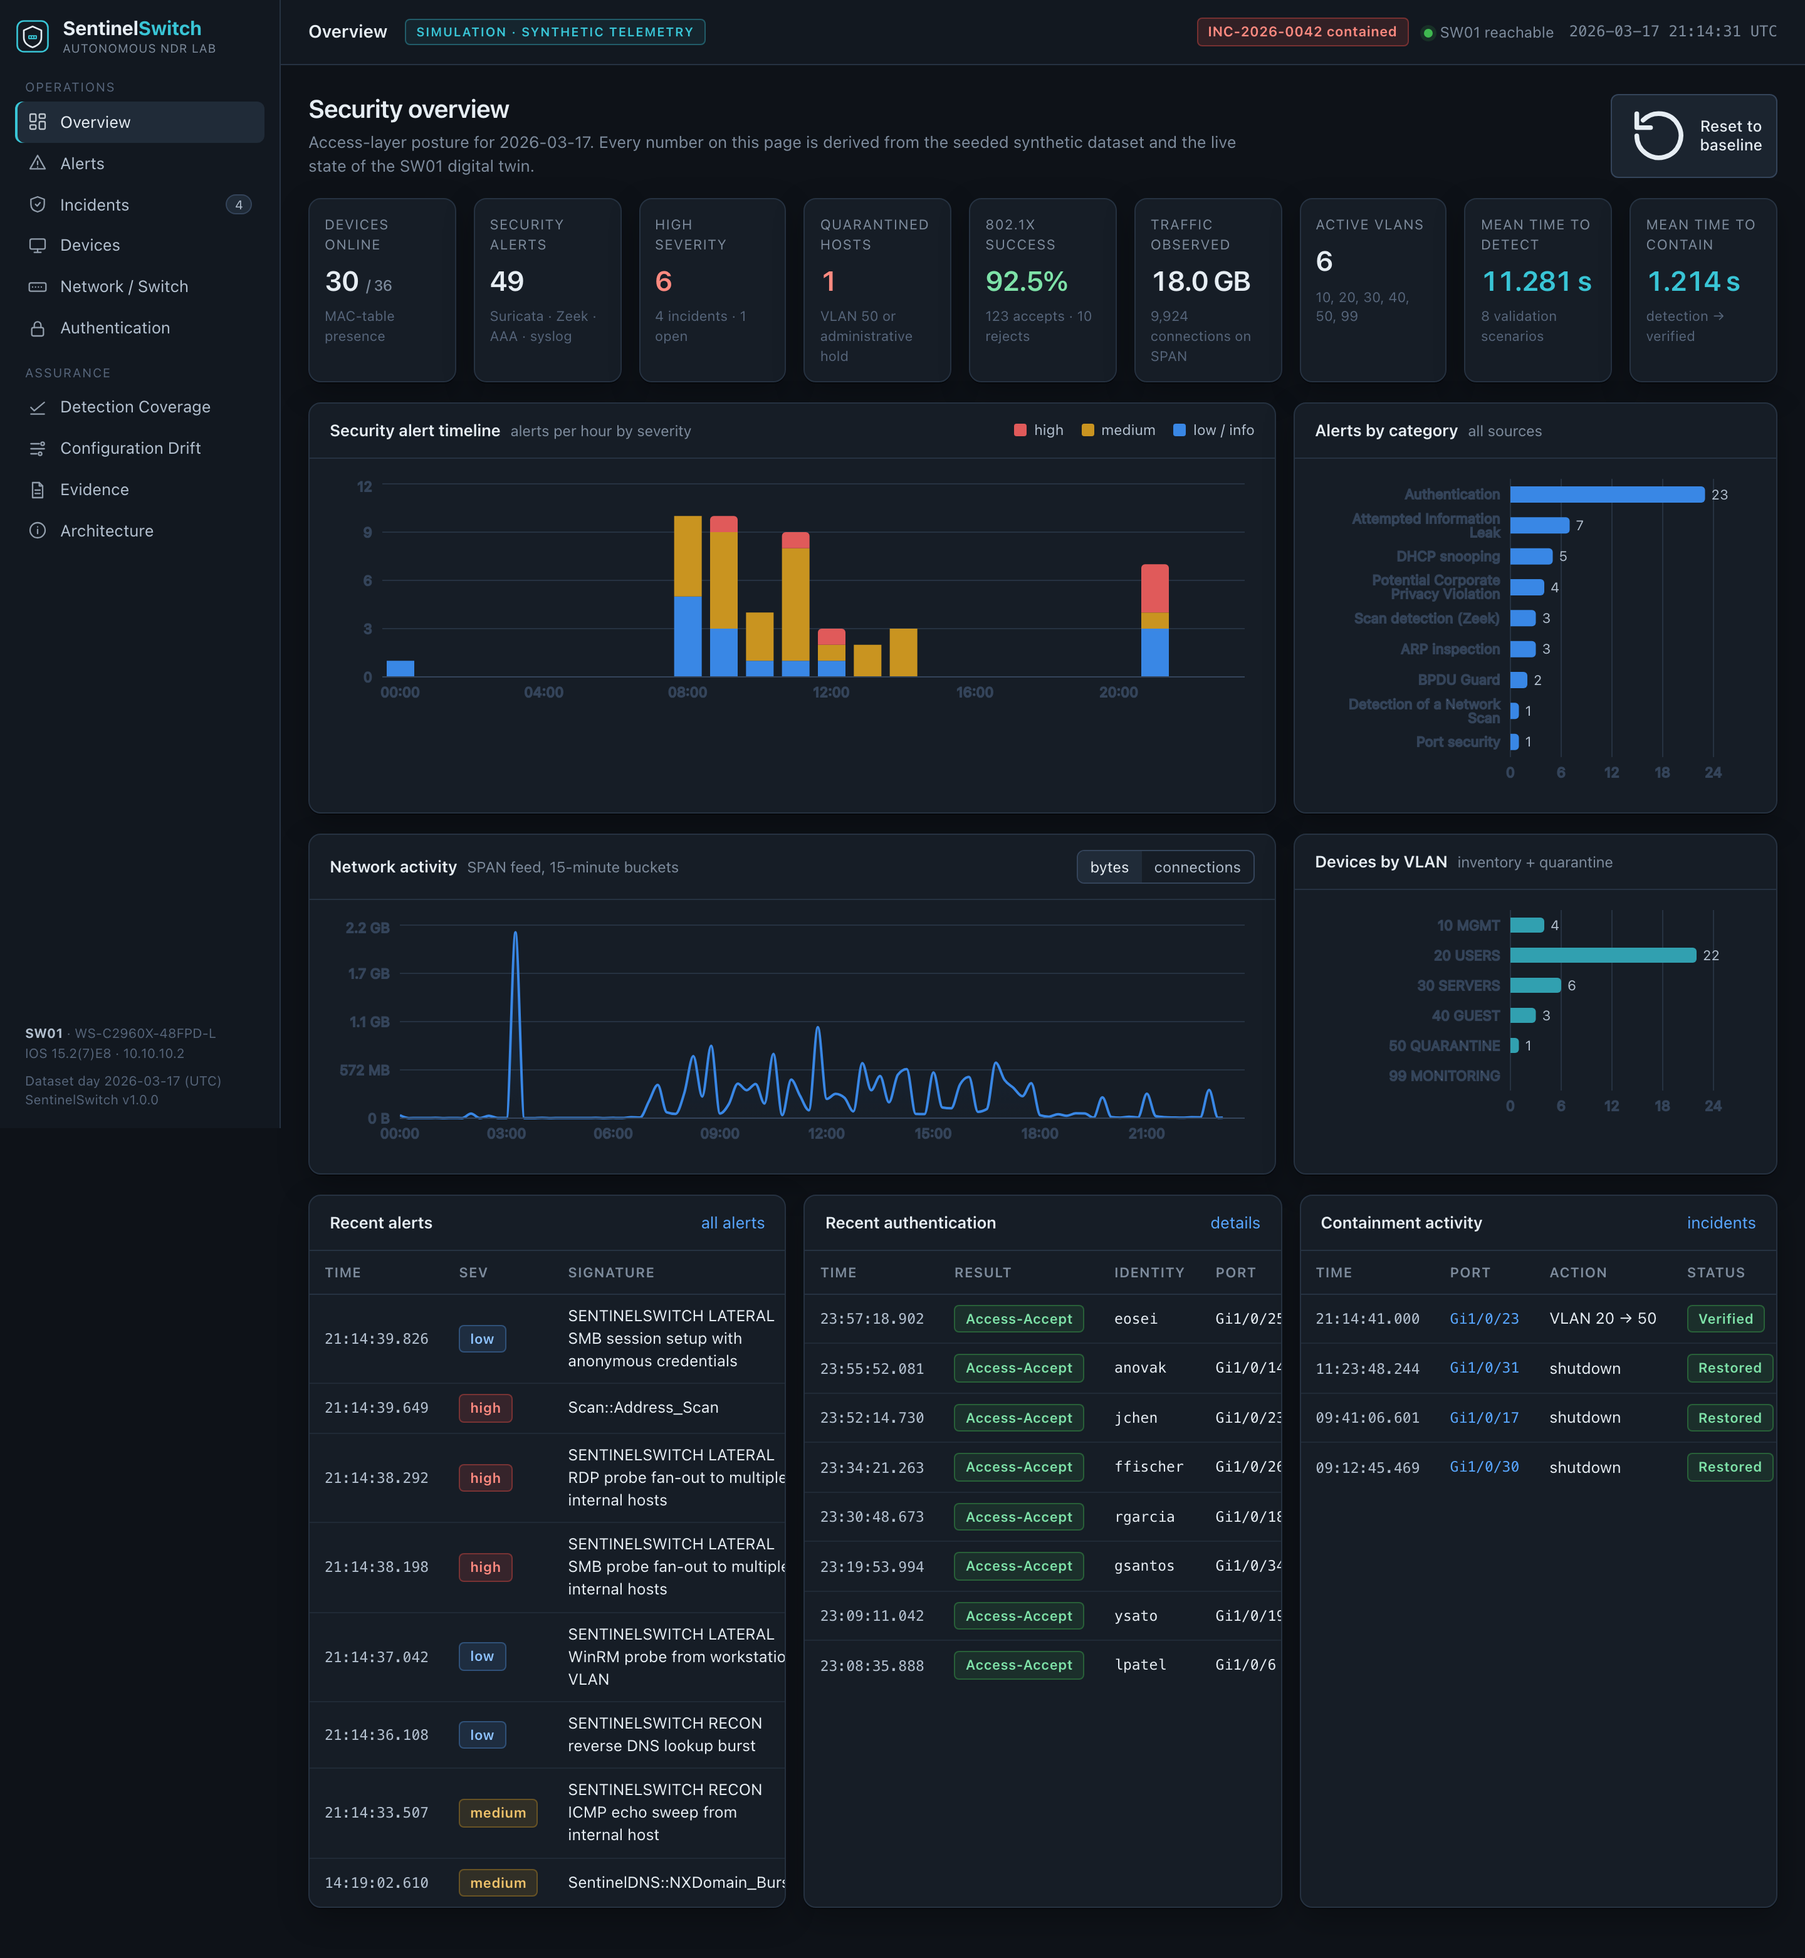
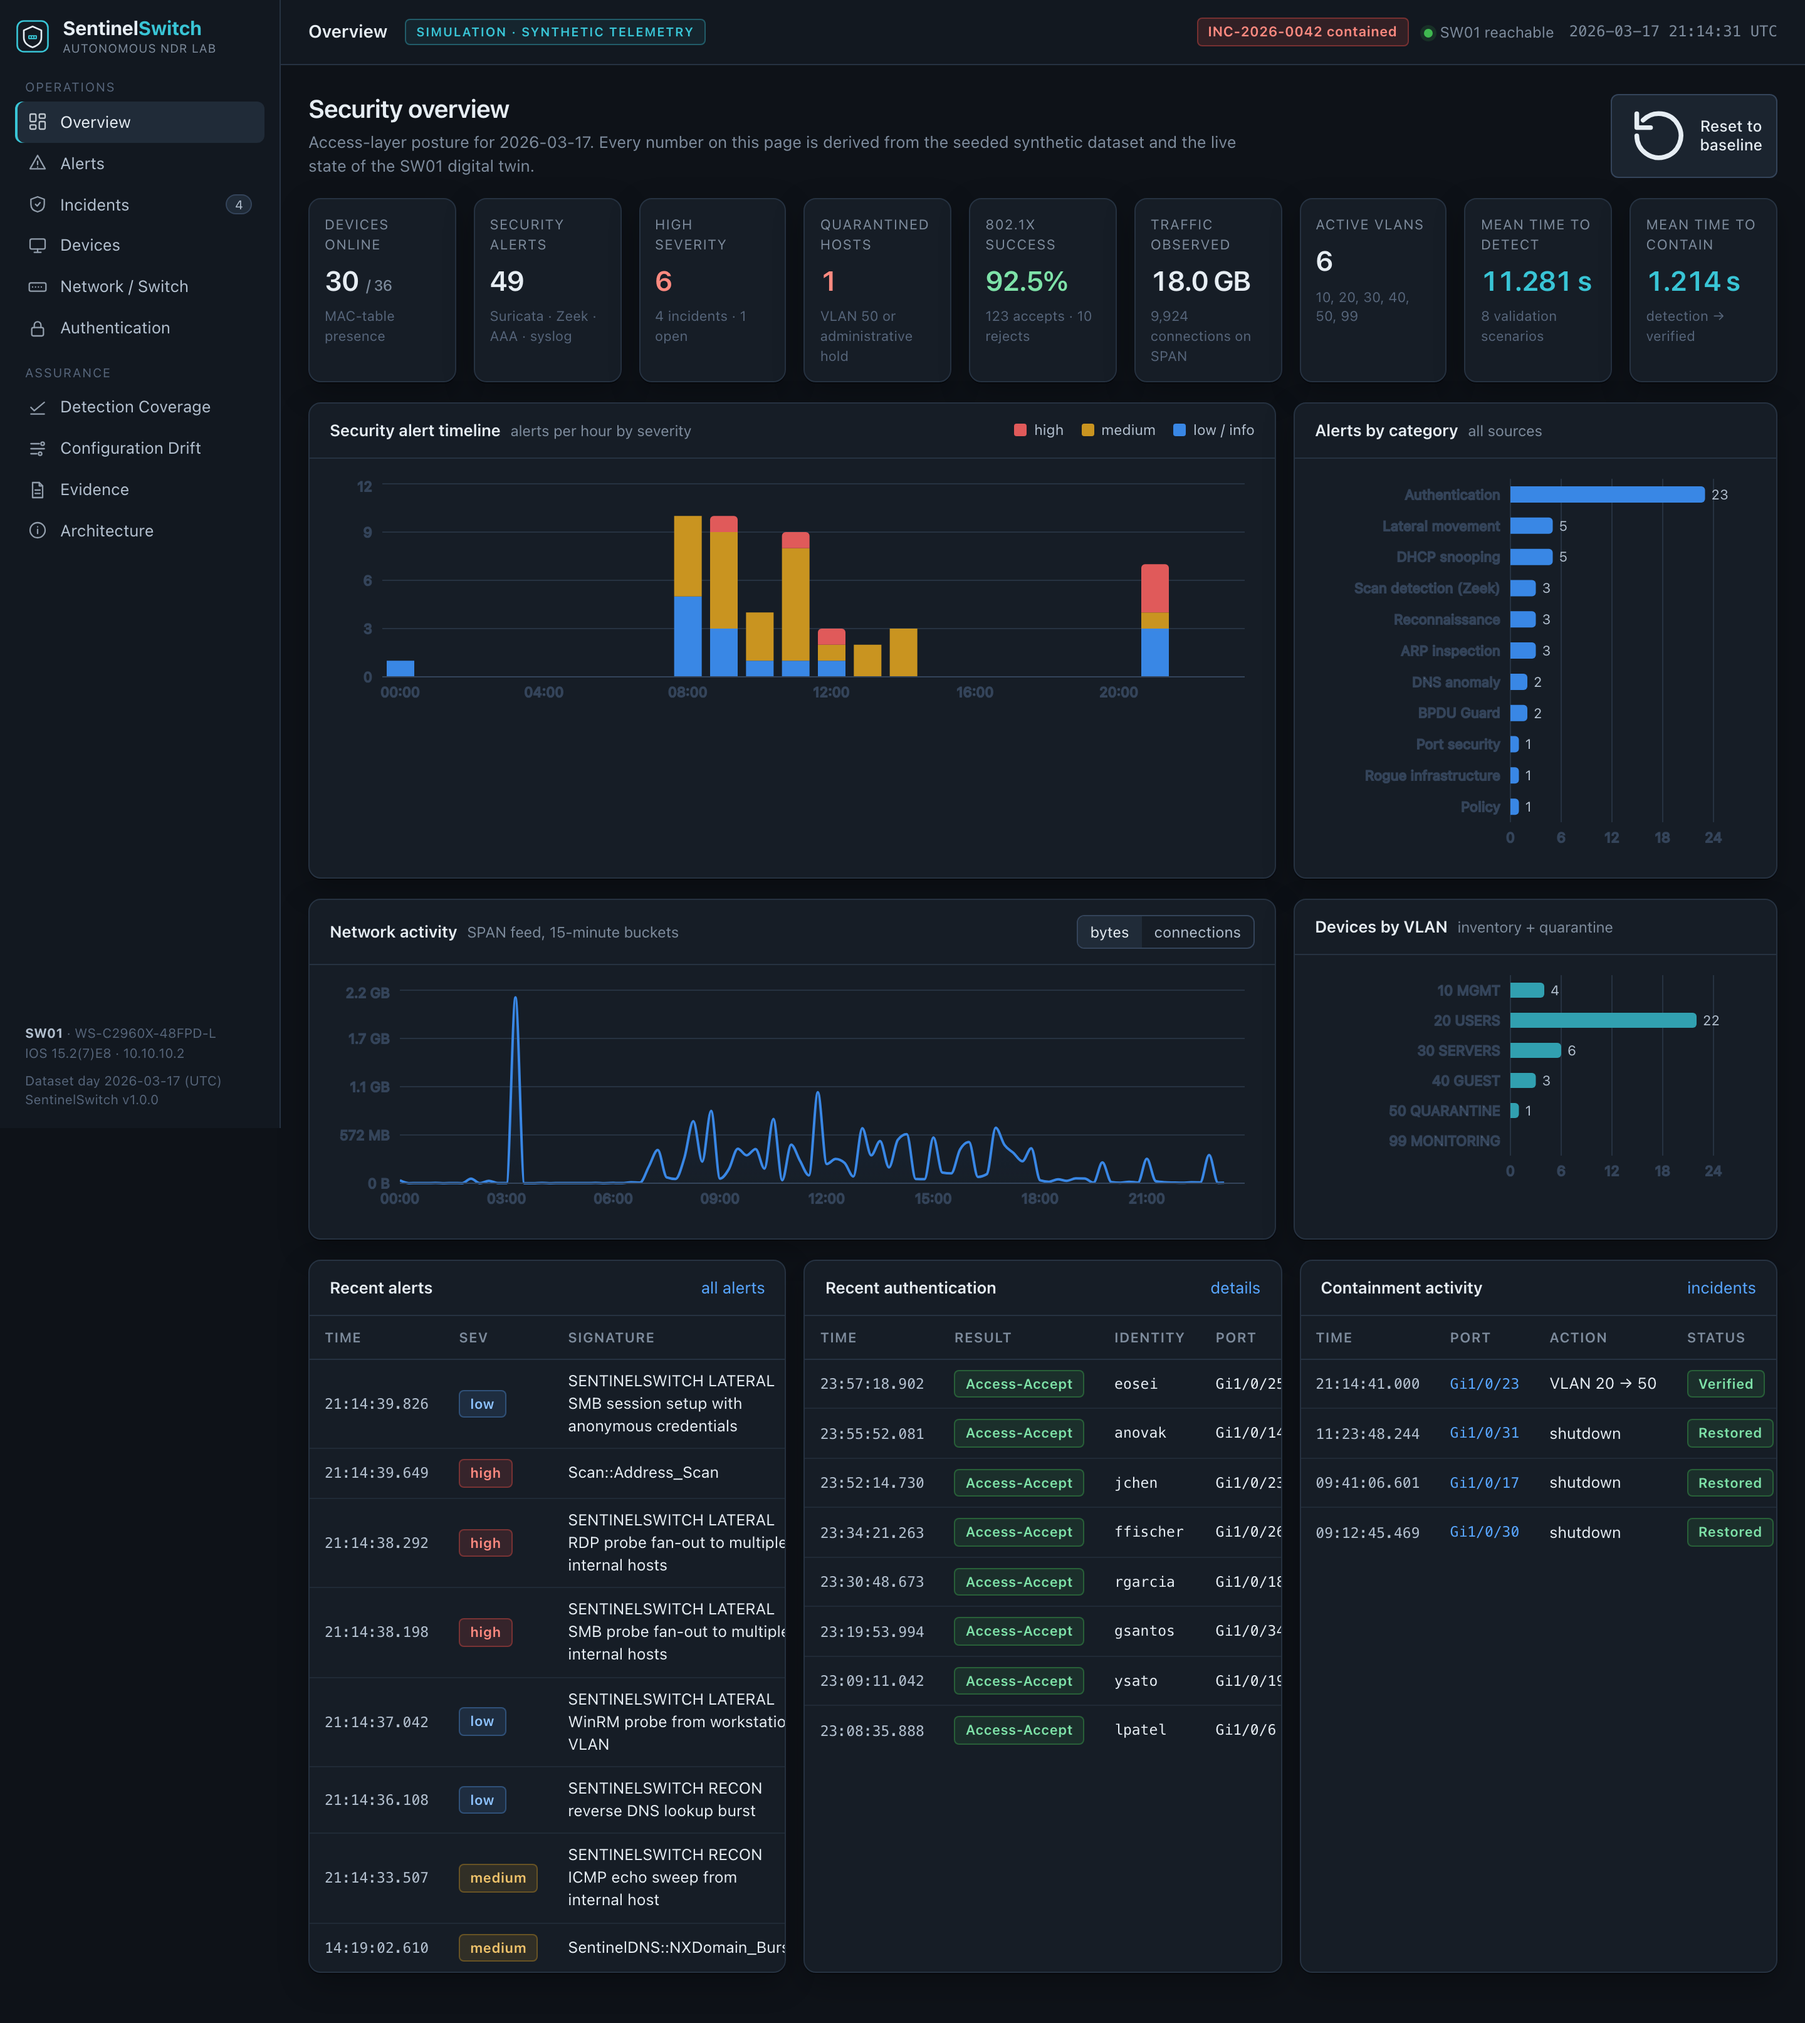
Use Sentinel detection classes for alert categories; regenerate dataset and media

diff --git a/simulator/generators/run.py b/simulator/generators/run.py
@@ -440,8 +440,8 @@ def derive_alerts(
                 or e.get("note")
                 or (f"%{e['mnemonic']}" if src == "syslog" else f"RADIUS {e['result']} ({e.get('method')})"),
                 "signature_id": e.get("signature_id"),
-                "category": e.get("category")
-                or e.get("sentinel_class")
+                "category": e.get("sentinel_class")
+                or e.get("category")
                 or ("aaa" if src == "radius" else "switch-security" if src == "syslog" else "zeek"),
                 "src_ip": e.get("src_ip"),
                 "src_port": e.get("src_port"),

diff --git a/backend/sentinelswitch/services/demo.py b/backend/sentinelswitch/services/demo.py
@@ -68,8 +68,8 @@ def _persist(store: Store, result: RunResult, on_event: Callable[[dict[str, Any]
             or e.get("note")
             or (f"%{e['mnemonic']}" if src == "syslog" else f"RADIUS {e['result']}"),
             "signature_id": e.get("signature_id"),
-            "category": e.get("category")
-            or e.get("sentinel_class")
+            "category": e.get("sentinel_class")
+            or e.get("category")
             or ("aaa" if src == "radius" else "switch-security"),
             "src_ip": e.get("src_ip"),
             "src_port": e.get("src_port"),
